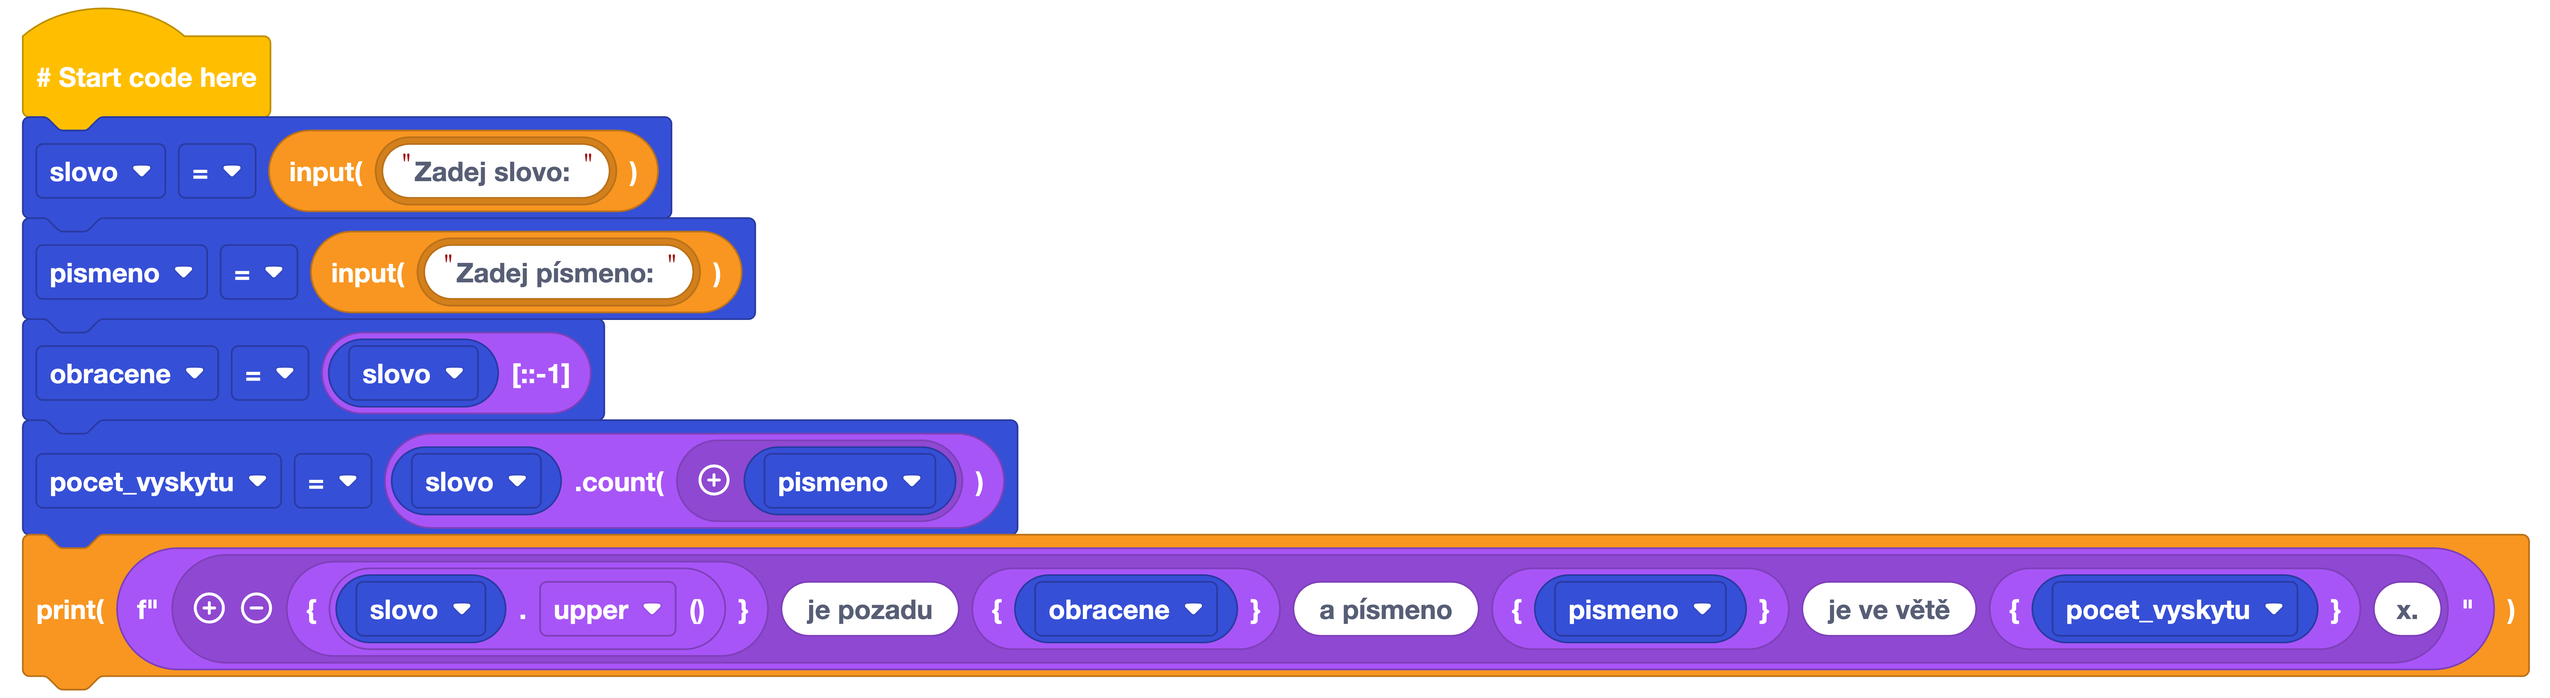
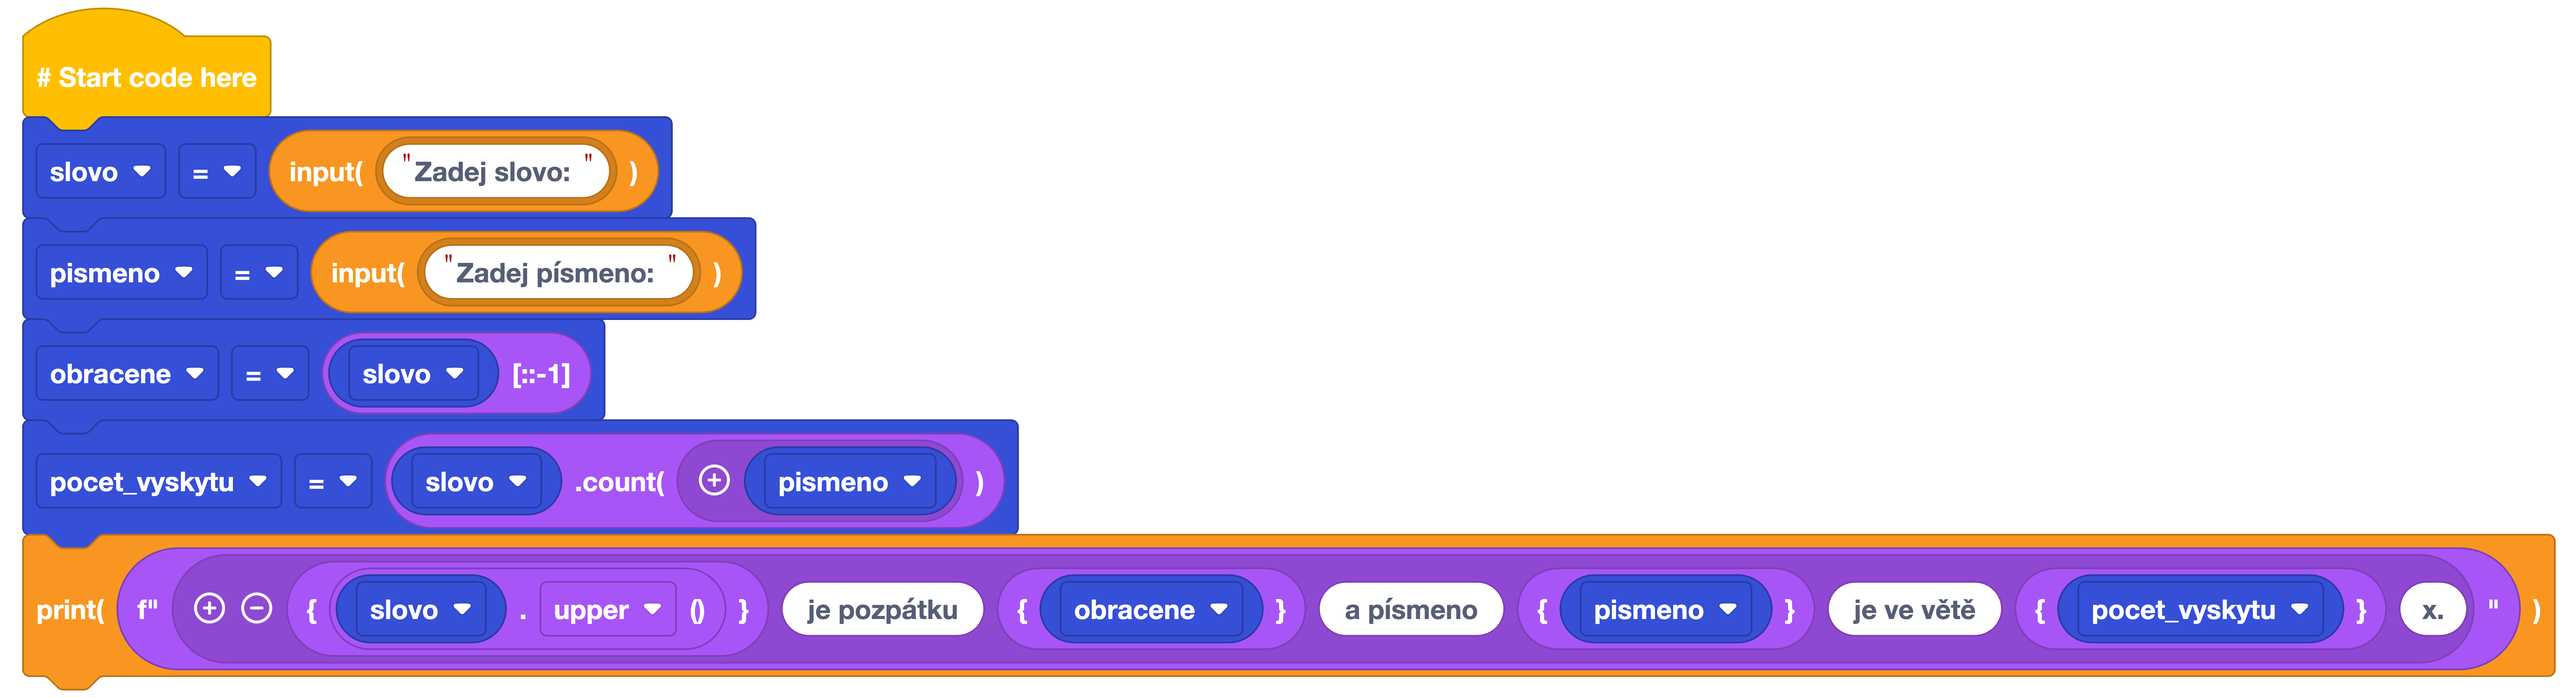
oprava slova

diff --git a/reseni_python/PL2_1_slovo - reseni.py b/reseni_python/PL2_1_slovo - reseni.py
@@ -3,4 +3,4 @@ slovo = input("Zadej slovo: ")
 pismeno = input("Zadej písmeno: ")
 obracene = slovo[::-1]
 pocet_vyskytu = slovo.count(pismeno)
-print(f"{slovo.upper()} je pozadu {obracene} a písmeno {pismeno} je ve větě {pocet_vyskytu}x.")
+print(f"{slovo.upper()} je pozpátku {obracene} a písmeno {pismeno} je ve větě {pocet_vyskytu}x.")
